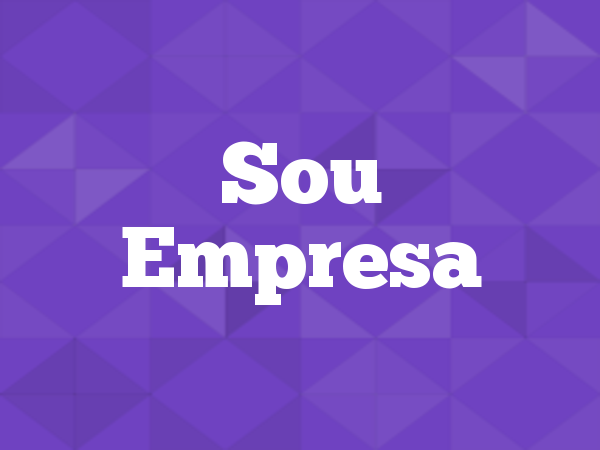
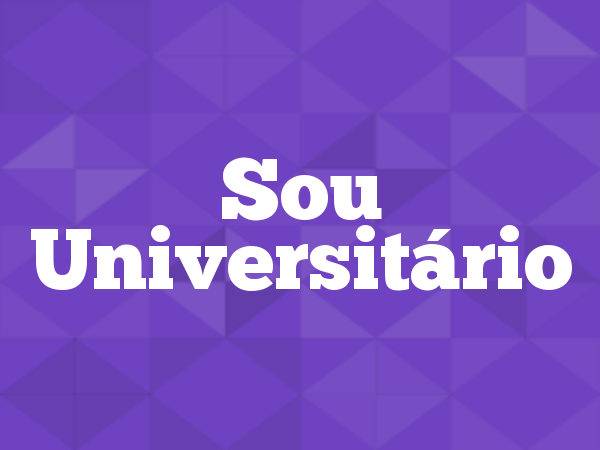
Create cadastro_empresa and cadastro_universitario

Changed region(s): [[0.03, 0.3111, 0.96, 0.6844]]

diff --git a/cadastro_empresa.html b/cadastro_empresa.html
@@ -12,11 +12,25 @@
     <link rel="stylesheet" href="node_modules/bootstrap/compiler/style.css">
 
     <link rel="stylesheet" href="node_modules/font-awesome/css/font-awesome.css">
+
+    <script>
+        function validarSenha() {
+            senha = document.getElementsByName('senha').value;
+            senha2 = document.getElementsByName('senha2').value;
+
+            if (senha != senha2) {
+                senha2.setCustomValidity("Senhas diferentes!");
+                return false;
+            }
+            return true;
+        }
+    </script>
+
 </head>
 
-<body>
+<body class="register">
 
-    <nav class="navbar fixed-top navbar-expand-md navbar-dark bg-gradient-primary">
+    <nav class="navbar fixed-top navbar-expand-md navbar-dark bg-gradient-primary pt-0">
 
         <div class="container">
 
@@ -40,6 +54,56 @@
         </div>
 
     </nav>
+
+    <div class="container col-5">
+
+        <form action="/action_page.php" method=post oninput='secondpassword.setCustomValidity(secondpassword.value != primarypassword.value ? "Passwords do not match." : "")' class="was-validated">
+            <div class="form-group">
+                <h2>Cadastro Empresarial</h2>
+                <label for="uname">Nome da empresa:</label>
+                <input type="text" class="form-control" id="uname" placeholder="" name="uname" required>
+                <div class="valid-feedback">Válido</div>
+                <div class="invalid-feedback">*Campo obrigatório</div>
+            </div>
+            <div class="form-group">
+                <label for="uname">Email:</label>
+                <input type="text" class="form-control" id="uname" placeholder="" name="email" required>
+                <div class="valid-feedback">Válido</div>
+                <div class="invalid-feedback">*Campo obrigatório</div>
+            </div>
+            <div class="form-group">
+                <label for="pwd">Senha:</label>
+                <input type="password" class="form-control" id="pwd" placeholder="" name="primarypassword" required>
+                <div class="valid-feedback">Válido</div>
+                <div class="invalid-feedback">*Campo obrigatório</div>
+            </div>
+            <div class="form-group">
+                <label for="pwd">Confirme sua senha:</label>
+                <input type="password" class="form-control" id="pwd" placeholder="" name="secondpassword" required>
+                <div class="valid-feedback">Válido.</div>
+                <div class="invalid-feedback">*As senhas estão diferentes</div>
+            </div>
+            <button type="submit" class="btn btn-primary" value="Create account">Submit</button>
+        </form>
+    </div>
+
+    <div class="row  justify-content-center">
+
+        <div class="col-12 mb-0">
+            <hr>
+        </div>
+
+        <div class="col-sm-0">
+
+            <div class="btn-block btn-group-lg" role="group">
+                <a class="btn btn-primary" href="#"><i class="fa fa-facebook-official" aria-hidden="true"></i></a>
+                <a class="btn btn-primary" href="#"><i class="fa fa-instagram" aria-hidden="true"></i></a>
+            </div>
+
+        </div>
+
+    </div>
+
 
     <!-- Optional JavaScript -->
     <!-- jQuery first, then Popper.js, then Bootstrap JS -->

diff --git a/cadastro_universitario.html b/cadastro_universitario.html
@@ -12,11 +12,25 @@
     <link rel="stylesheet" href="node_modules/bootstrap/compiler/style.css">
 
     <link rel="stylesheet" href="node_modules/font-awesome/css/font-awesome.css">
+
+    <script>
+        function validarSenha() {
+            senha = document.getElementsByName('senha').value;
+            senha2 = document.getElementsByName('senha2').value;
+
+            if (senha != senha2) {
+                senha2.setCustomValidity("Senhas diferentes!");
+                return false;
+            }
+            return true;
+        }
+    </script>
+
 </head>
 
-<body>
+<body class="register">
 
-    <nav class="navbar fixed-top navbar-expand-md navbar-dark bg-gradient-primary">
+    <nav class="navbar fixed-top navbar-expand-md navbar-dark bg-gradient-primary pt-0">
 
         <div class="container">
 
@@ -40,6 +54,56 @@
         </div>
 
     </nav>
+
+    <div class="container col-5">
+
+        <form action="/action_page.php" method=post oninput='secondpassword.setCustomValidity(secondpassword.value != primarypassword.value ? "Passwords do not match." : "")' class="was-validated">
+            <div class="form-group">
+                <h2>Cadastro Universitário</h2>
+                <label for="uname">Nome completo:</label>
+                <input type="text" class="form-control" id="uname" placeholder="" name="uname" required>
+                <div class="valid-feedback">Válido</div>
+                <div class="invalid-feedback">*Campo obrigatório</div>
+            </div>
+            <div class="form-group">
+                <label for="uname">Email:</label>
+                <input type="text" class="form-control" id="uname" name="" required>
+                <div class="valid-feedback">Válido</div>
+                <div class="invalid-feedback">*Campo obrigatório</div>
+            </div>
+            <div class="form-group">
+                <label for="pwd">Senha:</label>
+                <input type="password" class="form-control" id="pwd" placeholder="" name="primarypassword" required>
+                <div class="valid-feedback">Válido</div>
+                <div class="invalid-feedback">*Campo obrigatório</div>
+            </div>
+            <div class="form-group">
+                <label for="pwd">Confirme sua senha:</label>
+                <input type="password" class="form-control" id="pwd" placeholder="" name="secondpassword" required>
+                <div class="valid-feedback">Válido.</div>
+                <div class="invalid-feedback">*As senhas estão diferentes</div>
+            </div>
+            <button type="submit" class="btn btn-primary" value="Create account">Submit</button>
+        </form>
+    </div>
+
+    <div class="row  justify-content-center">
+
+        <div class="col-12 mb-0">
+            <hr>
+        </div>
+
+        <div class="col-sm-0">
+
+            <div class="btn-block btn-group-lg" role="group">
+                <a class="btn btn-primary" href="#"><i class="fa fa-facebook-official" aria-hidden="true"></i></a>
+                <a class="btn btn-primary" href="#"><i class="fa fa-instagram" aria-hidden="true"></i></a>
+            </div>
+
+        </div>
+
+    </div>
+
 
     <!-- Optional JavaScript -->
     <!-- jQuery first, then Popper.js, then Bootstrap JS -->

diff --git a/main.html b/main.html
@@ -128,10 +128,6 @@
 
     </div>
 
-
-
-
-
     <!-- Optional JavaScript -->
     <!-- jQuery first, then Popper.js, then Bootstrap JS -->
     <script src="node_modules/jquery/dist/jquery.js"></script>
